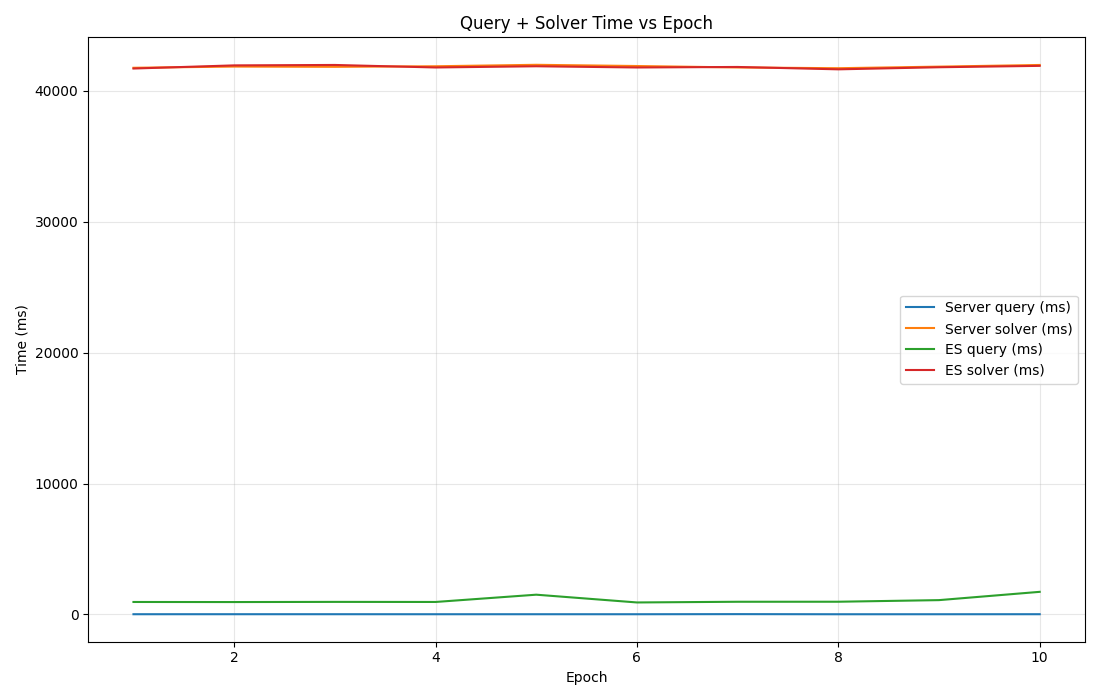
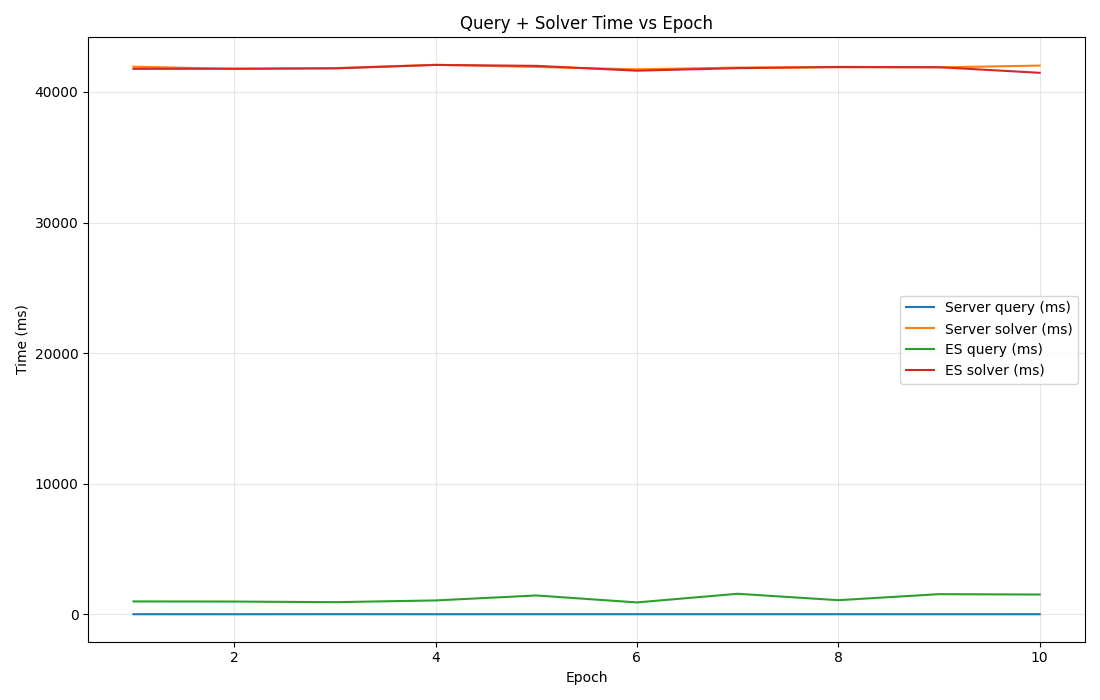
add solver result comparison

diff --git a/run_rtt_sweep_epoch_with_solver.py b/run_rtt_sweep_epoch_with_solver.py
@@ -57,6 +57,15 @@ class SweepResult:
     es_total_ms: float
 
 
+@dataclass
+class SolverResult:
+    elapsed_ms: float
+    objective_value: float
+    assignments: int
+    unassigned: int
+    status_code: int
+
+
 def parse_args() -> argparse.Namespace:
     parser = argparse.ArgumentParser()
     parser.add_argument("--start-epoch", type=int, default=DEFAULT_START_EPOCH, help="Start epoch id")
@@ -311,7 +320,11 @@ def _build_nodes_with_usage(
     return updated
 
 
-def run_solver_for_usage(usage: Dict[str, Dict[str, float]], assets: dict, context: dict) -> float:
+def run_solver_for_usage(
+    usage: Dict[str, Dict[str, float]],
+    assets: dict,
+    context: dict,
+) -> SolverResult:
     nodes = _build_nodes_with_usage(context["nodes"], usage, assets["Node"])
     edges = context["edges"]
     tasks = context["tasks"]
@@ -336,7 +349,20 @@ def run_solver_for_usage(usage: Dict[str, Dict[str, float]], assets: dict, conte
         f"status: {status_code}"
     )
     print(f"solver time: {elapsed_ms:.2f} ms")
-    return elapsed_ms
+    return SolverResult(
+        elapsed_ms=elapsed_ms,
+        objective_value=float(objective_value),
+        assignments=len(assignment),
+        unassigned=len(leftover),
+        status_code=int(status_code),
+    )
+
+
+def _solver_compare_csv_name(task_count: int, solver_node_count: int, query_node_count: int) -> str:
+    return (
+        "solver_compare_"
+        f"tasks{task_count}_solvernodes{solver_node_count}_querynodes{query_node_count}.csv"
+    )
 
 
 def parse_nodes_config(path: str) -> List[str]:
@@ -818,6 +844,9 @@ def main() -> None:
         args.es_timeout,
     )
 
+    solver_compare_file = None
+    solver_compare_writer = None
+
     server_log_path = None if args.server_log == "-" else Path(args.server_log)
     proc = start_server(server_log_path, truncate_log=args.truncate_server_log)
     try:
@@ -848,6 +877,33 @@ def main() -> None:
                 f"tasks={len(solver_context['tasks'])}/{len(assets['tasks'])} | "
                 f"nodes={len(solver_context['nodes'])}/{len(assets['nodes'])}"
             )
+
+            solver_compare_path = Path(
+                _solver_compare_csv_name(
+                    args.solver_task_count,
+                    args.solver_node_count,
+                    args.query_node_count,
+                )
+            )
+            solver_compare_file = open(solver_compare_path, "w", newline="")
+            solver_compare_writer = csv.writer(solver_compare_file)
+            solver_compare_writer.writerow(
+                [
+                    "timestamp_utc",
+                    "epoch",
+                    "server_objective",
+                    "server_assignments",
+                    "server_unassigned",
+                    "server_status",
+                    "server_solver_ms",
+                    "es_objective",
+                    "es_assignments",
+                    "es_unassigned",
+                    "es_status",
+                    "es_solver_ms",
+                ]
+            )
+            solver_compare_file.flush()
 
         query_nodes = _select_first_n(nodes, args.query_node_count)
         if args.solver_node_count > 0 and args.query_node_count > 0:
@@ -914,8 +970,28 @@ def main() -> None:
             if args.run_solver and assets is not None and solver_context is not None:
                 server_usage = _extract_server_usage(server_json)
                 es_usage = _extract_es_usage(es_json)
-                server_solver_ms = run_solver_for_usage(server_usage, assets, solver_context)
-                es_solver_ms = run_solver_for_usage(es_usage, assets, solver_context)
+                server_result = run_solver_for_usage(server_usage, assets, solver_context)
+                es_result = run_solver_for_usage(es_usage, assets, solver_context)
+                server_solver_ms = server_result.elapsed_ms
+                es_solver_ms = es_result.elapsed_ms
+                if solver_compare_writer is not None and solver_compare_file is not None:
+                    solver_compare_writer.writerow(
+                        [
+                            datetime.now(timezone.utc).isoformat(),
+                            epoch,
+                            f"{server_result.objective_value:.6f}",
+                            server_result.assignments,
+                            server_result.unassigned,
+                            server_result.status_code,
+                            f"{server_result.elapsed_ms:.4f}",
+                            f"{es_result.objective_value:.6f}",
+                            es_result.assignments,
+                            es_result.unassigned,
+                            es_result.status_code,
+                            f"{es_result.elapsed_ms:.4f}",
+                        ]
+                    )
+                    solver_compare_file.flush()
 
             max_diff = compare_results(server_json, es_json)
             server_rtt_total = server_rtt + server_solver_ms
@@ -960,6 +1036,8 @@ def main() -> None:
     finally:
         stop_server(proc)
         csv_file.close()
+        if solver_compare_file is not None:
+            solver_compare_file.close()
 
     plot_results(results, out_plot)
     total_plot = out_plot.with_name(f"{out_plot.stem}_total{out_plot.suffix}")